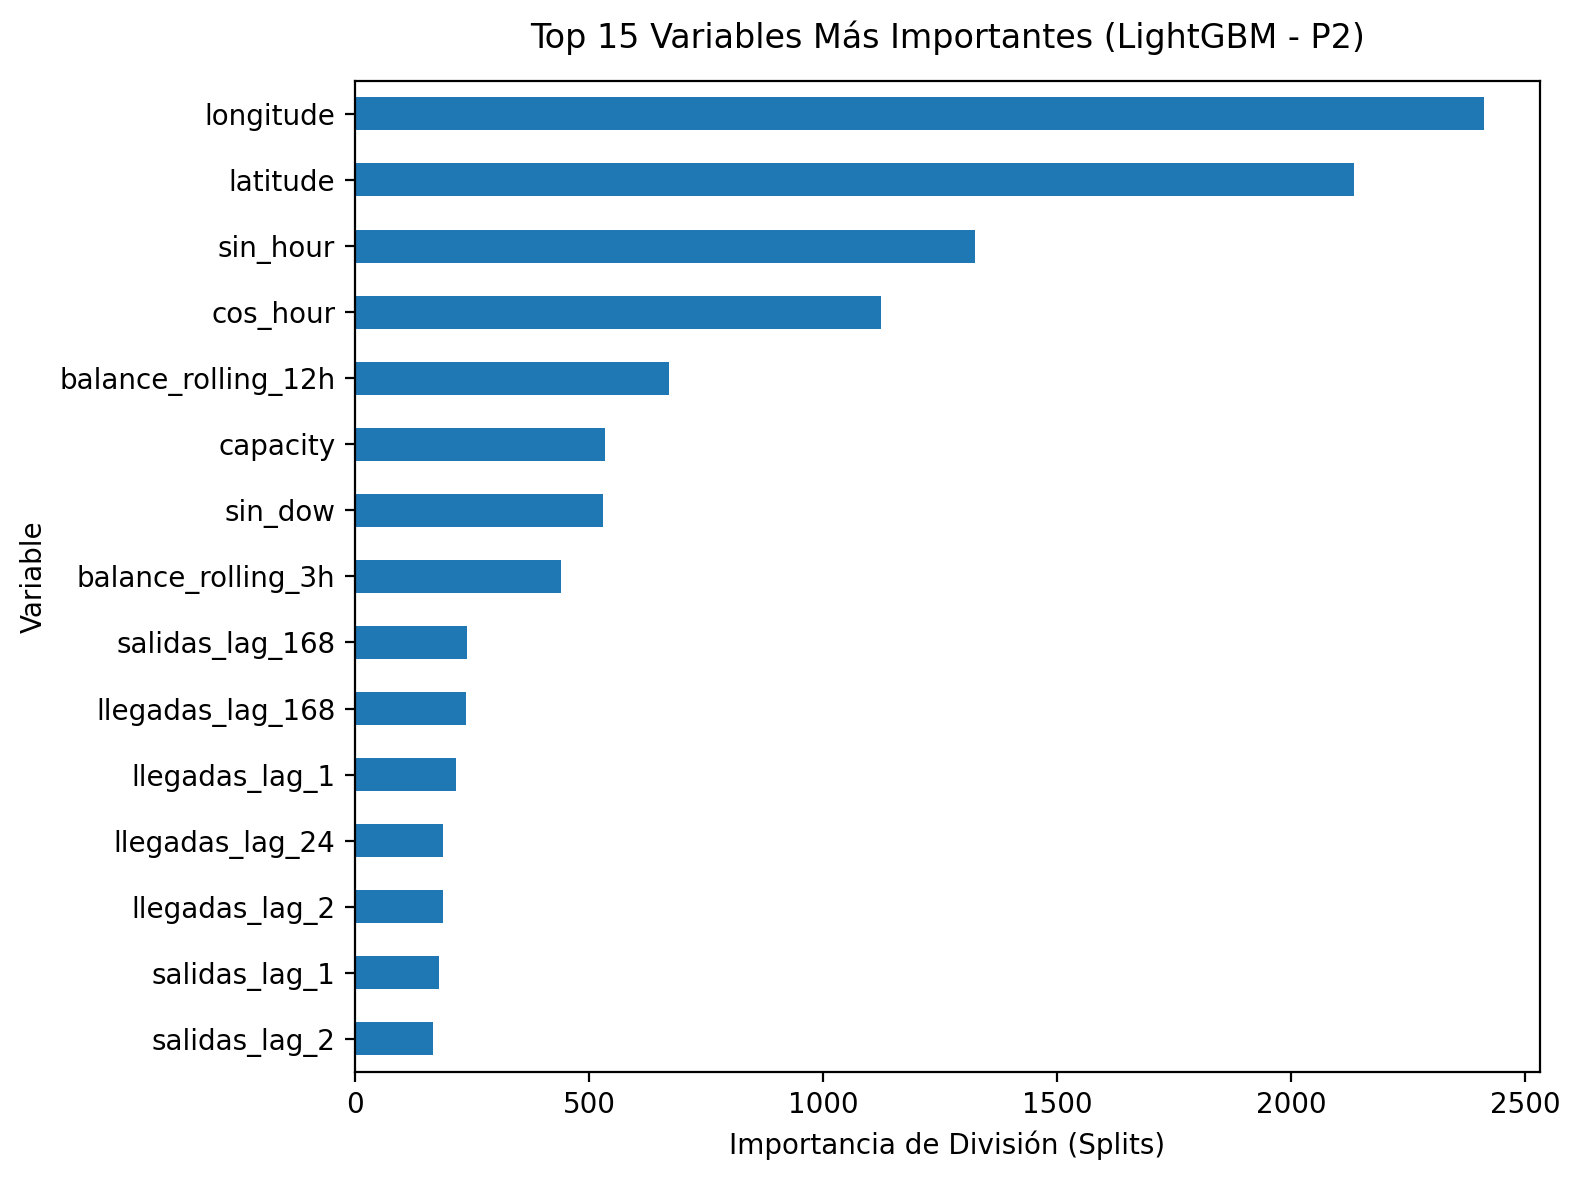
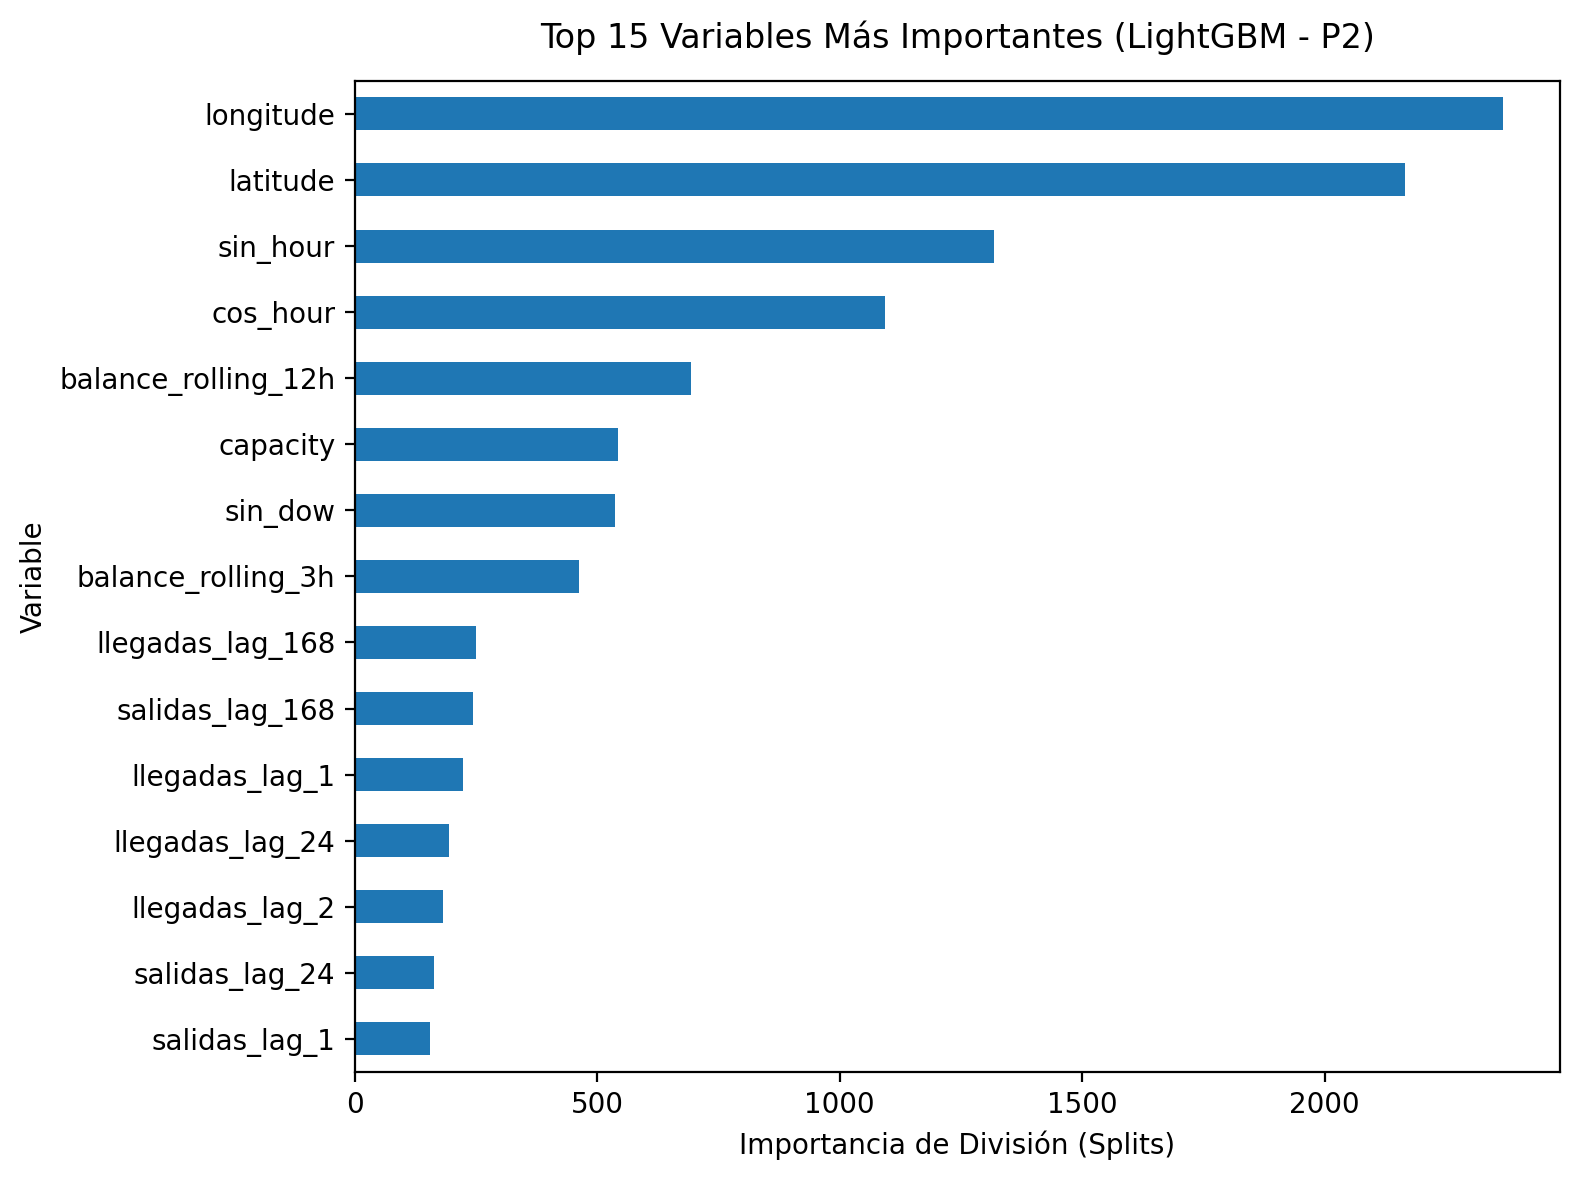
fix(p2): eliminar fuga temporal en corte 2025-2026 excluyendo ultimas 2 horas de train
- src/p2_config.py: Definir TRAIN_CUTOFF_DATE = '2025-12-31 22:00:00' como umbral maximo para entrenamiento.
- src/features/p2_features.py: En get_train_test_data(), aplicar train_cutoff = split_date - horizon_hours (22:00 del 31-dic-2025), excluyendo 940 filas cuya ventana futura (t+1, t+2) cruzaba a enero 2026 (periodo de test).
- src/models/p2_train.py y src/models/run_all_experiments.py: Registrar parametro train_cutoff_date en MLflow y actualizar resumenes del baseline y candidato.
- tests/test_p2_features.py: Agregar prueba unitaria test_p2_get_train_test_data_anti_leakage para validar la particion temporal estricta.
- reports/: Regenerar metricas, reportes y graficas diagnosticas con evaluacion completamente limpia (Train: 4,037,300 muestras | Test: 3,078,500 muestras | Macro F1: 0.3662).

diff --git a/tests/test_p2_features.py b/tests/test_p2_features.py
@@ -11,6 +11,7 @@ from src.features.p2_features import (
     add_demand_lags,
     add_rolling_balance_features,
     compute_target_variable,
+    get_train_test_data,
 )
 
 
@@ -74,3 +75,59 @@ def test_p2_add_cyclical_calendar_features(sample_station_grid):
         # Las funciones trigonométricas deben estar acotadas entre -1 y 1
         assert df_res[col].min() >= -1.0
         assert df_res[col].max() <= 1.0
+
+
+def test_p2_get_train_test_data_anti_leakage(tmp_path):
+    """
+    Verifica que la partición temporal excluya de Train las filas cuya ventana
+    futura cruce hacia el periodo de Test (evitando fuga de datos de enero 2026).
+    """
+    # Rango horario que cruza fin de año 2025 e inicio de 2026
+    timestamps = pd.date_range("2025-12-31 18:00:00", "2026-01-01 06:00:00", freq="h")
+    n = len(timestamps)
+    df = pd.DataFrame(
+        {
+            "station_id": [1] * n,
+            "timestamp": timestamps,
+            "capacity": [20] * n,
+            "salidas": [1] * n,
+            "llegadas": [1] * n,
+            "balance_neto": [0] * n,
+            "delta_net": [0] * n,
+            "ratio": [0.0] * n,
+            "target": [0] * n,
+            "salidas_lag_168": [1.0] * n,
+            "feature_demo": np.arange(n),
+        }
+    )
+
+    parquet_file = tmp_path / "test_features.parquet"
+    df.to_parquet(parquet_file, index=False)
+
+    X_train, y_train, X_test, y_test, feature_cols, df_clean = get_train_test_data(
+        features_parquet=parquet_file,
+        split_date="2026-01-01 00:00:00",
+        horizon_hours=2,
+        warmup_lag_col="salidas_lag_168",
+    )
+
+    # El corte de train debe ser < 2025-12-31 22:00:00 (horizon_hours=2)
+    train_timestamps = df_clean.loc[X_train.index, "timestamp"]
+    test_timestamps = df_clean.loc[X_test.index, "timestamp"]
+
+    # 1. No debe existir ninguna fila en Train a partir de las 22:00 del 31 de diciembre
+    assert (train_timestamps < pd.Timestamp("2025-12-31 22:00:00")).all()
+    assert train_timestamps.max() == pd.Timestamp("2025-12-31 21:00:00")
+
+    # 2. Las filas de las 22:00 y 23:00 del 31 de dic no deben estar ni en Train ni en Test
+    excluded_mask = df_clean["timestamp"].isin(
+        [pd.Timestamp("2025-12-31 22:00:00"), pd.Timestamp("2025-12-31 23:00:00")]
+    )
+    excluded_indices = df_clean[excluded_mask].index
+    assert not any(idx in X_train.index for idx in excluded_indices)
+    assert not any(idx in X_test.index for idx in excluded_indices)
+
+    # 3. Test debe comenzar estrictamente en 2026-01-01 00:00:00
+    assert (test_timestamps >= pd.Timestamp("2026-01-01 00:00:00")).all()
+    assert test_timestamps.min() == pd.Timestamp("2026-01-01 00:00:00")
+

diff --git a/src/features/p2_features.py b/src/features/p2_features.py
@@ -246,12 +246,15 @@ def build_full_feature_pipeline(
 def get_train_test_data(
     features_parquet: Path = P2_FEATURES_TARGET_PARQUET,
     split_date: str = TRAIN_END_DATE,
+    horizon_hours: int = TARGET_HORIZON_HOURS,
     warmup_lag_col: str = "salidas_lag_168",
 ) -> Tuple[pd.DataFrame, pd.Series, pd.DataFrame, pd.Series, List[str], pd.DataFrame]:
     """
-    Carga el dataset de características y realiza la partición temporal estricta:
+    Carga el dataset de características y realiza la partición temporal estricta anti-leakage:
     - Descarta periodo de calentamiento y filas terminales sin target.
-    - Train: timestamp < split_date
+    - Train: timestamp < (split_date - horizon_hours) -> Excluye las filas cuyas ventanas futuras
+      de 2 horas (t+1, t+2) cruzan el corte hacia el periodo de prueba de 2026 (las que empiezan
+      a partir de las 22:00 del 31 de diciembre de 2025).
     - Test : timestamp >= split_date
     """
     if not features_parquet.exists():
@@ -281,7 +284,11 @@ def get_train_test_data(
         ]
     ]
 
-    train_mask = df_clean["timestamp"] < split_date
+    # Prevención estricta de fuga temporal (Data Leakage):
+    # Las filas cuya ventana futura cruza el corte (a partir de las 22:00 del 31 de diciembre)
+    # se excluyen de entrenamiento para que ninguna etiqueta use viajes de enero de 2026.
+    train_cutoff = pd.Timestamp(split_date) - pd.Timedelta(hours=horizon_hours)
+    train_mask = df_clean["timestamp"] < train_cutoff
     test_mask = df_clean["timestamp"] >= split_date
 
     X_train = df_clean.loc[train_mask, feature_cols]

diff --git a/src/models/run_all_experiments.py b/src/models/run_all_experiments.py
@@ -60,6 +60,7 @@ from src.p2_config import (
     P2_TRIPS_HOURLY_PARQUET,
     RANDOM_SEED,
     REPORTS_DIR,
+    TRAIN_CUTOFF_DATE,
     TRAIN_END_DATE,
     logger,
 )
@@ -168,7 +169,9 @@ def run_p2_experiments(data_version: str, git_commit: str):
         f"Test Balanced Acc  : {dummy_bal_acc:.4f}\n"
         f"Recall Normal (0)  : {recalls_dummy[0]:.2%}\n"
         f"Recall Desabasto(1): {recalls_dummy[1]:.2%}\n"
-        f"Recall Saturacion(2): {recalls_dummy[2]:.2%}\n",
+        f"Recall Saturacion(2): {recalls_dummy[2]:.2%}\n"
+        f"Fecha Corte Train  : < {TRAIN_CUTOFF_DATE} (Anti-Leakage)\n"
+        f"Fecha Evaluacion   : >= {TRAIN_END_DATE}\n",
         encoding="utf-8",
     )
 
@@ -180,6 +183,7 @@ def run_p2_experiments(data_version: str, git_commit: str):
         "train_samples": len(X_train),
         "test_samples": len(X_test),
         "train_end_date": TRAIN_END_DATE,
+        "train_cutoff_date": TRAIN_CUTOFF_DATE,
         "date_range": "2025-01-01 to 2026-09-30",
         "data_version": data_version,
     }
@@ -244,6 +248,7 @@ def run_p2_experiments(data_version: str, git_commit: str):
             "test_samples": len(X_test),
             "num_features": len(feature_cols),
             "train_end_date": TRAIN_END_DATE,
+            "train_cutoff_date": TRAIN_CUTOFF_DATE,
             "date_range": "2025-01-01 to 2026-09-30",
             "data_version": data_version,
         }

diff --git a/src/models/p2_train.py b/src/models/p2_train.py
@@ -38,6 +38,7 @@ from src.p2_config import (
     P2_MODEL_PATH,
     RANDOM_SEED,
     REPORTS_DIR,
+    TRAIN_CUTOFF_DATE,
     TRAIN_END_DATE,
     logger,
 )
@@ -168,6 +169,7 @@ def train_and_evaluate(
                     "train_samples": len(X_train),
                     "test_samples": len(X_test),
                     "train_end_date": TRAIN_END_DATE,
+                    "train_cutoff_date": TRAIN_CUTOFF_DATE,
                     "date_range": "2025-01-01 to 2026-09-30",
                     "data_version": data_version,
                 }
@@ -190,6 +192,7 @@ def train_and_evaluate(
                 f"Recall Normal (0)   : {recalls_dummy[0]:.2%}\n"
                 f"Recall Desabasto (1): {recalls_dummy[1]:.2%}\n"
                 f"Recall Saturación (2): {recalls_dummy[2]:.2%}\n"
+                f"Fecha Corte Train   : < {TRAIN_CUTOFF_DATE} (Anti-Leakage)\n"
                 f"Fecha Evaluación    : >= {TRAIN_END_DATE}\n",
                 encoding="utf-8",
             )
@@ -220,6 +223,7 @@ def train_and_evaluate(
                     "test_samples": len(X_test),
                     "num_features": len(feature_cols),
                     "train_end_date": TRAIN_END_DATE,
+                    "train_cutoff_date": TRAIN_CUTOFF_DATE,
                     "date_range": "2025-01-01 to 2026-09-30",
                     "data_version": data_version,
                 }

diff --git a/src/p2_config.py b/src/p2_config.py
@@ -84,6 +84,9 @@ TARGET_YEARS: List[int] = [2025, 2026]
 START_TIMESTAMP: str = "2025-01-01 00:00:00"
 END_TIMESTAMP: str = "2026-09-30 23:00:00"
 TRAIN_END_DATE: str = "2026-01-01 00:00:00"
+# Corte anti-leakage: inicio de las dos últimas horas de 2025 (>= 22:00 del 31 de diciembre).
+# Las observaciones cuyas ventanas futuras cruzan el corte hacia 2026 (t+1, t+2) se excluyen de Train.
+TRAIN_CUTOFF_DATE: str = "2025-12-31 22:00:00"
 
 # ==============================================================================
 # DEFINICIÓN DEL TARGET OPERATIVO (PREGUNTA 2)
